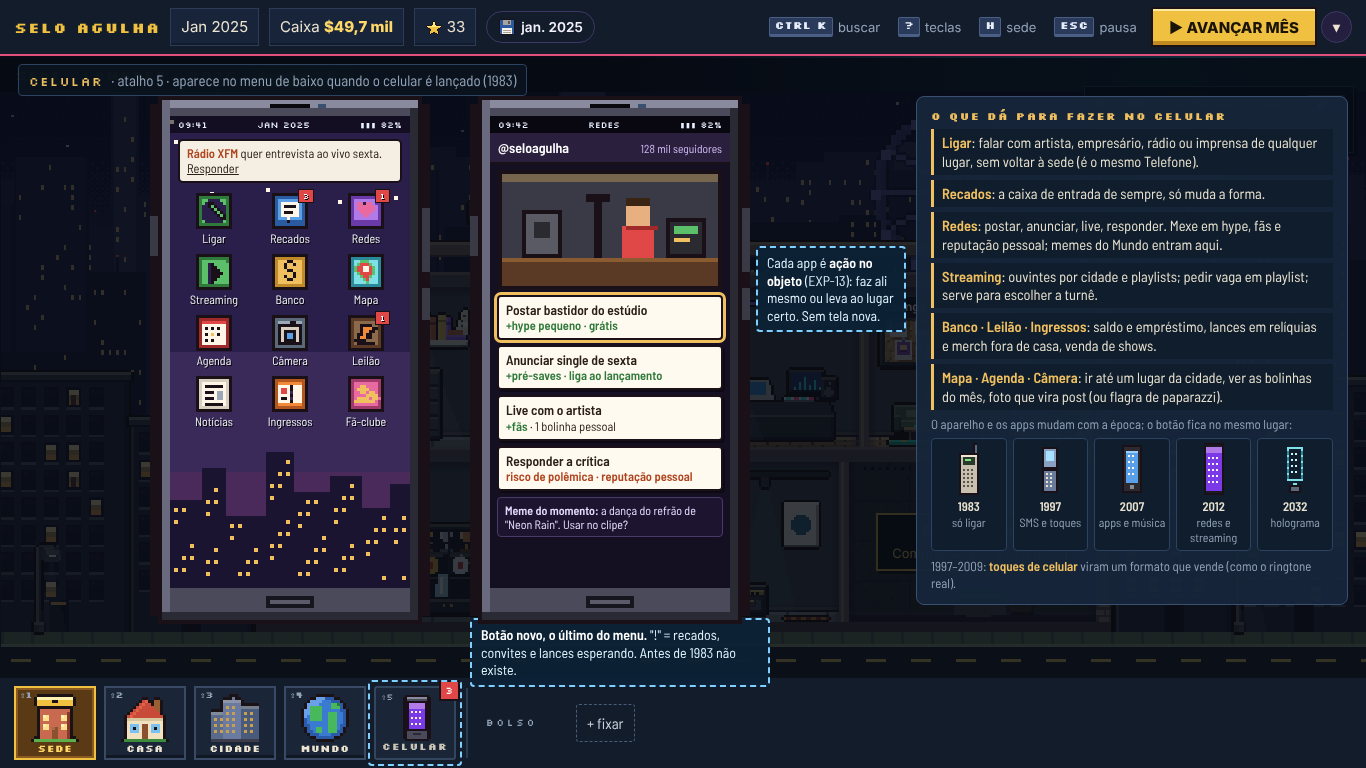
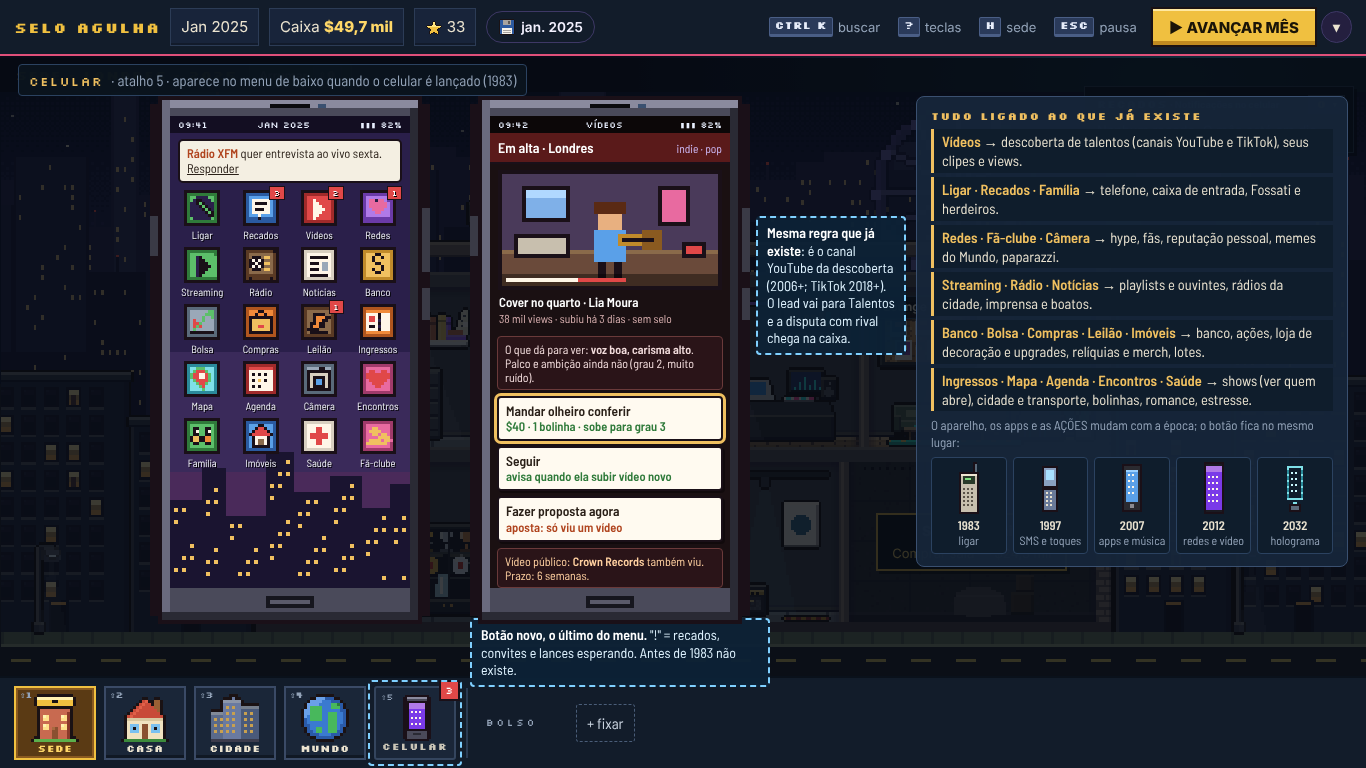
docs(r33): celular e computador ligados aos sistemas que já existem, com Vídeos (descoberta), Compras e ações por época
Claude-Session: https://claude.ai/code/session_011XM6gk992aeaeJ7tjK8svn

Changed region(s): [[0.3382, 0.125, 1.0, 0.8125], [0.123, 0.2188, 0.3075, 0.625]]

diff --git a/docs/r33/mocks/mock33-celular-pc.html b/docs/r33/mocks/mock33-celular-pc.html
@@ -23,7 +23,7 @@ canvas{image-rendering:pixelated;display:block}
 .callout b{color:#fff}
 .note{position:absolute;background:#16263af4;border:1px solid #3a5070;border-radius:8px;padding:12px 14px;font-size:14.5px;line-height:1.3}
 .note h4{margin:0 0 6px;font-family:var(--pix);font-size:11px;letter-spacing:.12em;color:var(--gold)}
-.note .it{border-left:3px solid var(--gold);padding:4px 8px;margin:5px 0;background:#0f1d2c}
+.note .it{border-left:3px solid var(--gold);padding:3px 8px;margin:4px 0;background:#0f1d2c}
 .note .it b{color:var(--gold)}
 .note .sm{color:var(--mute);font-size:13px}
 .eras{display:flex;gap:6px;margin-top:6px}
@@ -35,10 +35,10 @@ canvas{image-rendering:pixelated;display:block}
 /* phone screen */
 .scr{position:absolute;overflow:hidden;font-size:13px}
 .sbar{display:flex;justify-content:space-between;font-family:var(--pix);font-size:9px;color:#e9f0ff;padding:3px 8px;background:#0008}
-.grid{display:grid;grid-template-columns:repeat(3,1fr);gap:9px 4px;padding:10px 8px}
-.app{text-align:center;font-size:12px;color:#f2f4f8;position:relative;text-shadow:1px 1px 0 #000}
+.grid{display:grid;grid-template-columns:repeat(4,1fr);gap:6px 2px;padding:7px 4px}
+.app{text-align:center;font-size:10.5px;color:#f2f4f8;position:relative;text-shadow:1px 1px 0 #000}
 .app canvas{margin:0 auto 2px}
-.app i{position:absolute;right:12px;top:-4px;background:var(--red);color:#fff;font-style:normal;font-family:var(--pix);font-size:8px;padding:1px 4px;border:1px solid #1a1018}
+.app i{position:absolute;right:4px;top:-4px;background:var(--red);color:#fff;font-style:normal;font-family:var(--pix);font-size:8px;padding:1px 4px;border:1px solid #1a1018}
 .notif{margin:6px 8px 0;background:#f4efe2;color:#2a2018;border-radius:5px;padding:5px 7px;font-size:12.5px;line-height:1.2;border:2px solid #1a1018}
 .notif b{color:#b0441e}
 .apphead{background:#2a1f3d;color:#fff;padding:6px 8px;font-weight:700;font-size:14px;border-bottom:2px solid #1a1018;display:flex;justify-content:space-between;align-items:center}
@@ -50,10 +50,10 @@ canvas{image-rendering:pixelated;display:block}
 .opt.sel{outline:3px solid var(--gold)}
 .feed{margin:6px 7px;background:#1d1530;border:1px solid #4a3a6a;border-radius:4px;padding:5px 7px;color:#e6dcff;font-size:12px}
 /* pc */
-.desk{display:grid;grid-template-columns:repeat(2,96px);gap:12px 8px;padding:12px;position:absolute;left:0;top:0;bottom:30px}
-.ico{text-align:center;font-size:12.5px;color:#fff;text-shadow:1px 1px 0 #000;position:relative}
+.desk{display:grid;grid-template-columns:repeat(3,84px);gap:6px 4px;padding:10px;position:absolute;left:0;top:0;bottom:30px}
+.ico{text-align:center;font-size:11.5px;color:#fff;text-shadow:1px 1px 0 #000;position:relative}
 .ico canvas{margin:0 auto 2px}
-.ico i{position:absolute;right:18px;top:-4px;background:var(--red);color:#fff;font-style:normal;font-family:var(--pix);font-size:8px;padding:1px 4px;border:1px solid #1a1018}
+.ico i{position:absolute;right:14px;top:-4px;background:var(--red);color:#fff;font-style:normal;font-family:var(--pix);font-size:8px;padding:1px 4px;border:1px solid #1a1018}
 .win{position:absolute;background:#f4f1ea;color:#1f2430;border:2px solid #1a1018;box-shadow:4px 4px 0 #0007}
 .win .tb{background:#3b5b8a;color:#fff;font-weight:700;padding:4px 8px;font-size:13.5px;display:flex;justify-content:space-between}
 .win .tb span{font-family:var(--pix);font-size:9px;line-height:16px}
@@ -108,6 +108,15 @@ const ICONS={
  talentos:['kkkkkkkkkkkk','kBBBBBBBBBBk','kBbbbbbbbbBk','kBbkkkbbbbBk','kBkwwwkbbbBk','kBkwwwkbbbBk','kBbkkkkbbbBk','kBbbbbkkbbBk','kBbbbbbkkbBk','kBbbbbbbkkBk','kBBBBBBBBBBk','kkkkkkkkkkkk'],
  anuncio:['kkkkkkkkkkkk','kYYYYYYYYYYk','kYyyyyyyykYk','kYyyyyykkkYk','kYykkkkwwkYk','kYykwwwwwkYk','kYykkkkwwkYk','kYyyykykkkYk','kYyyykyyykYk','kYyyyyyyyyYk','kYYYYYYYYYYk','kkkkkkkkkkkk'],
  jogo:['kkkkkkkkkkkk','kPPPPPPPPPPk','kPppppppppPk','kPpkkkkkkpPk','kPkwkwwwwkPk','kPkkkwwrwkPk','kPkwkwrwrkPk','kPpkkkkkkpPk','kPppppppppPk','kPppppppppPk','kPPPPPPPPPPk','kkkkkkkkkkkk'],
+
+ video:['kkkkkkkkkkkk','kRRRRRRRRRRk','kRrrrrrrrrRk','kRrrwrrrrrRk','kRrrwwrrrrRk','kRrrwwwrrrRk','kRrrwwwwrrRk','kRrrwwwrrrRk','kRrrwwrrrrRk','kRrrwrrrrrRk','kRRRRRRRRRRk','kkkkkkkkkkkk'],
+ radio:['kkkkkkkkkkkk','kNNNNNNNNNkk','kNnnnnnnnnNk','kNnkkknyynNk','kNkwkwknnnNk','kNkkwkkyynNk','kNkwkwknnnNk','kNnkkknyynNk','kNnnnnnnnnNk','kNNNNNNNNNNk','kNkNNNNNNkNk','kkkkkkkkkkkk'],
+ bolsa:['kkkkkkkkkkkk','kSSSSSSSSSSk','kSssssssggSk','kSsssssgggSk','kSssssgssgSk','kSsrssgsssSk','kSsrrgssssSk','kSsrgrssssSk','kSsgssssssSk','kSkkkkkkkkSk','kSSSSSSSSSSk','kkkkkkkkkkkk'],
+ compras:['kkkkkkkkkkkk','kOOOOOOOOOOk','kOoookkoooOk','kOookookooOk','kOkkkkkkkkOk','kOkyyyyyykOk','kOkyyyyyykOk','kOkyyrryykOk','kOkyyyyyykOk','kOkkkkkkkkOk','kOOOOOOOOOOk','kkkkkkkkkkkk'],
+ encontros:['kkkkkkkkkkkk','kMMMMMMMMMMk','kMmmmmmmmmMk','kMmrrmmrrmMk','kMrrrrrrrrMk','kMrrrrrrrrMk','kMmrrrrrrmMk','kMmmrrrrmmMk','kMmmmrrmmmMk','kMmmmmmmmmMk','kMMMMMMMMMMk','kkkkkkkkkkkk'],
+ familia:['kkkkkkkkkkkk','kGGGGGGGGGGk','kGggggggggGk','kGgkkggkkgGk','kGgkwggkwgGk','kGgkkggkkgGk','kGkyykkoogGk','kGkyykkoogGk','kGgkkggkkgGk','kGggggggggGk','kGGGGGGGGGGk','kkkkkkkkkkkk'],
+ imoveis:['kkkkkkkkkkkk','kBBBBBBBBBBk','kBbbbkkbbbBk','kBbbkrrkbbBk','kBbkrrrrkbBk','kBkrrrrrrkBk','kBbkwwwwkbBk','kBbkwnnwkbBk','kBbkwnnwkbBk','kBbkkkkkkbBk','kBBBBBBBBBBk','kkkkkkkkkkkk'],
+ saude:['kkkkkkkkkkkk','kWWWWWWWWWWk','kWwwwwwwwwWk','kWwwwrrwwwWk','kWwwwrrwwwWk','kWwrrrrrrwWk','kWwrrrrrrwWk','kWwwwrrwwwWk','kWwwwrrwwwWk','kWwwwwwwwwWk','kWWWWWWWWWWk','kkkkkkkkkkkk'],
 };
 ICONS.email=ICONS.msg; ICONS.site=ICONS.mapa.map(r=>r.replace(/C/g,'B').replace(/c/g,'b')); ICONS.dados=ICONS.stream;
 const ico=(n,sc=3)=>spr(ICONS[n],K,sc);
@@ -141,7 +150,7 @@ function bigPhone(){return pcanvas(70,132,4,(R)=>{
 // wallpaper pixel (city at night + logo)
 function wall(w,h){return pcanvas(w,h,4,(R)=>{
  for(let y=0;y<h;y++){const t=y/h;R(0,y,w,1,t<.5?'#2a1f4a':t<.75?'#3a2a5a':'#4a2a5a')}
- for(let i=0;i<14;i++)R((i*37)%w,(i*11)%(h/5|0)+1,1,1,'#fff6e8');
+ 
  const bx=[[0,8,22],[8,6,30],[14,10,18],[24,7,34],[31,9,24],[40,8,28],[48,7,20],[55,6,26]];
  for(const [x,ww,hh] of bx){R(x,h-hh,ww,hh,'#1a1430');for(let yy=h-hh+2;yy<h-2;yy+=3)for(let xx=x+1;xx<x+ww-1;xx+=2)if((xx*7+yy*3)%5<2)R(xx,yy,1,1,'#f0c060')}
 });}
@@ -153,10 +162,26 @@ function photo(){return pcanvas(56,30,4,(R)=>{R(0,0,56,30,INK);R(1,1,54,28,'#3a3
  R(42,12,10,10,INK);R(43,13,8,8,'#2a2a30');R(44,14,6,2,'#5cbf6a');R(44,17,4,1,'#f0c060');// mesa
  R(1,1,54,2,'#f0c06055');});}
 
+function bedroom(){return pcanvas(56,30,4,(R)=>{R(0,0,56,30,INK);R(1,1,54,28,'#4a3a5a');R(1,20,54,9,'#6a4a3a');R(1,20,54,1,'#8a6a4a');
+ R(6,4,12,9,INK);R(7,5,10,7,'#7fb0e8');R(7,5,10,2,'#b0d8ff');R(40,4,8,10,INK);R(41,5,6,8,'#e86aa0');// janela e pôster
+ R(4,16,14,6,INK);R(5,17,12,4,'#c8bfae');// cama
+ R(25,9,6,6,'#e8b080');R(24,8,8,3,'#5a2a14');R(24,15,8,8,'#5aa0e8');R(25,23,2,4,INK);R(29,23,2,4,INK);// pessoa
+ R(30,16,10,3,'#c08a2a');R(36,15,5,5,'#8a5a20');R(31,17,8,1,INK);// violão
+ R(46,18,6,4,INK);R(47,19,4,2,'#e04848');// luz de gravação
+ R(1,26,54,3,'#00000066');R(2,27,30,1,'#e04848');R(2,27,18,1,'#fff6e8')});}
+function thumb(k){return pcanvas(14,14,3,(R)=>{R(0,0,14,14,INK);R(1,1,12,12,'#d8cfc0');
+ if(k==='led'){R(2,3,10,7,INK);R(3,4,8,5,'#3a2a5a');for(let x=3;x<11;x+=2)R(x,5,1,3,'#7fe0e8');R(6,10,2,3,INK)}
+ if(k==='laser'){R(3,7,6,4,INK);R(4,8,4,2,'#5a6a7a');R(8,3,1,1,'#5cff6a');R(9,2,1,1,'#5cff6a');R(10,1,1,1,'#5cff6a');R(7,4,1,1,'#5cff6a');R(6,5,1,1,'#5cff6a')}
+ if(k==='teto'){R(1,1,12,2,INK);R(3,3,8,2,'#f0c060');R(4,5,6,1,'#f0c06088');R(2,8,10,5,'#e8e0c0')}
+ if(k==='vidro'){R(2,2,10,10,INK);R(3,3,8,8,'#7fb0e8');R(3,3,4,8,'#3a5a8a');R(7,3,1,8,INK)}});}
+function flipBig(){return pcanvas(60,125,4,(R)=>{R(4,0,52,58,INK);R(5,1,50,56,'#6a7a9a');R(5,1,50,2,'#9aaac8');R(10,6,40,38,INK);R(24,48,12,2,'#3a4a62');
+ R(4,60,52,65,INK);R(5,61,50,63,'#5a6a8a');R(5,61,50,2,'#8a9ab8');R(4,57,52,4,'#3a4a62');
+ for(let y=0;y<4;y++)for(let x=0;x<3;x++){R(12+x*13,80+y*10,10,7,INK);R(13+x*13,81+y*10,8,5,'#d8d0c0');R(13+x*13,81+y*10,8,1,'#fff6e8')}
+ R(12,66,36,10,INK);R(13,67,34,8,'#3a4a62');R(26,68,8,6,'#9aaac8')});}
 // ---------- background ----------
 document.getElementById('bg').src=M==='cel'?'sede25.png':'sede25.png';
 
-if(M==='cel'){
+if(M==='cel'||M==='cel2'){
  add('<div class="dim"></div>');
  add('<div class="title">CELULAR <span>· atalho 5 · aparece no menu de baixo quando o celular é lançado (1983)</span></div>');
  // dock
@@ -168,44 +193,72 @@ if(M==='cel'){
  add('<div class="fixar" style="left:576px">+ fixar</div>');
  add('<div class="callout" style="left:470px;top:618px;width:300px"><b>Botão novo, o último do menu.</b> "!" = recados, convites e lances esperando. Antes de 1983 não existe.</div>');
  add('<div class="ann" style="left:368px;top:680px;width:94px;height:86px"></div>');
- // phone 1: home
- const P1L=150,PT=96;const f1=bigPhone();f1.style.cssText=`position:absolute;left:${P1L}px;top:${PT}px;width:280px;height:528px`;root.appendChild(f1);
+ const P1L=150,PT=96;
+ if(M==='cel'){const f1=bigPhone();f1.style.cssText=`position:absolute;left:${P1L}px;top:${PT}px;width:280px;height:528px`;root.appendChild(f1);
  const s1=add(`<div class="scr" style="left:${P1L+20}px;top:${PT+20}px;width:240px;height:472px"></div>`);
  const w1=wall(60,118);w1.style.cssText='position:absolute;inset:0;width:240px;height:472px';s1.appendChild(w1);
  const c1=$('<div style="position:relative"></div>');s1.appendChild(c1);
  c1.innerHTML='<div class="sbar"><span>09:41</span><span>JAN 2025</span><span>▮▮▮ 82%</span></div>'+
   '<div class="notif"><b>Rádio XFM</b> quer entrevista ao vivo sexta. <u>Responder</u></div>';
  const g1=$('<div class="grid"></div>');c1.appendChild(g1);
- const apps=[['ligar','Ligar',''],['msg','Recados','3'],['redes','Redes','1'],['stream','Streaming',''],['banco','Banco',''],['mapa','Mapa',''],['agenda','Agenda',''],['camera','Câmera',''],['leilao','Leilão','1'],['noticias','Notícias',''],['ingresso','Ingressos',''],['fas','Fã-clube','']];
+ const apps=[['ligar','Ligar',''],['msg','Recados','3'],['video','Vídeos','2'],['redes','Redes','1'],['stream','Streaming',''],['radio','Rádio',''],['noticias','Notícias',''],['banco','Banco',''],['bolsa','Bolsa',''],['compras','Compras',''],['leilao','Leilão','1'],['ingresso','Ingressos',''],['mapa','Mapa',''],['agenda','Agenda',''],['camera','Câmera',''],['encontros','Encontros',''],['familia','Família',''],['imoveis','Imóveis',''],['saude','Saúde',''],['fas','Fã-clube','']];
  for(const [k,lbl,bd] of apps){const a=$(`<div class="app">${bd?`<i>${bd}</i>`:''}<div>${lbl}</div></div>`);a.insertBefore(ico(k,3),a.firstChild);g1.appendChild(a)}
- add(`<div class="callout" style="left:${P1L-8}px;top:${PT+540}px;width:296px;display:none"></div>`);
- // phone 2: app Redes aberto
+ }
+ if(M==='cel'){
+ // phone 2: Vídeos — descobrir artista novo (discover18 · canal youtube)
  const P2L=470;const f2=bigPhone();f2.style.cssText=`position:absolute;left:${P2L}px;top:${PT}px;width:280px;height:528px`;root.appendChild(f2);
- const s2=add(`<div class="scr" style="left:${P2L+20}px;top:${PT+20}px;width:240px;height:472px;background:#141022"></div>`);
- s2.innerHTML='<div class="sbar"><span>09:42</span><span>REDES</span><span>▮▮▮ 82%</span></div>'+
-  '<div class="apphead">@seloagulha <span>128 mil seguidores</span></div>';
- const ph=photo();ph.style.cssText='display:block;margin:6px auto 0;width:224px;height:120px';s2.appendChild(ph);
+ const s2=add(`<div class="scr" style="left:${P2L+20}px;top:${PT+20}px;width:240px;height:472px;background:#1a1012"></div>`);
+ s2.innerHTML='<div class="sbar"><span>09:42</span><span>VÍDEOS</span><span>▮▮▮ 82%</span></div>'+
+  '<div class="apphead" style="background:#5a1a1a">Em alta · Londres <span>indie · pop</span></div>';
+ const vd=bedroom();vd.style.cssText='display:block;margin:6px auto 0;width:224px;height:120px';s2.appendChild(vd);
  s2.insertAdjacentHTML('beforeend',
-  '<div class="opt sel"><b>Postar bastidor do estúdio</b><em>+hype pequeno · grátis</em></div>'+
-  '<div class="opt"><b>Anunciar single de sexta</b><em>+pré-saves · liga ao lançamento</em></div>'+
-  '<div class="opt"><b>Live com o artista</b><em>+fãs</em> · 1 bolinha pessoal</div>'+
-  '<div class="opt"><b>Responder a crítica</b><em class="r">risco de polêmica · reputação pessoal</em></div>'+
-  '<div class="feed"><b>Meme do momento:</b> a dança do refrão de "Neon Rain". Usar no clipe?</div>');
- add(`<div class="callout" style="left:${P2L+286}px;top:${PT+150}px;width:150px">Cada app é <b>ação no objeto</b> (EXP-13): faz ali mesmo ou leva ao lugar certo. Sem tela nova.</div>`);
- // note
+  '<div style="padding:4px 9px;color:#fff;font-size:13px"><b>Cover no quarto · Lia Moura</b><br><span style="color:#d9b0b0;font-size:11.5px">38 mil views · subiu há 3 dias · sem selo</span></div>'+
+  '<div class="feed" style="background:#2a1418;border-color:#6a3a3a;color:#f2dcdc">O que dá para ver: <b>voz boa, carisma alto</b>. Palco e ambição ainda não (grau 2, muito ruído).</div>'+
+  '<div class="opt sel"><b>Mandar olheiro conferir</b><em>$40 · 1 bolinha · sobe para grau 3</em></div>'+
+  '<div class="opt"><b>Seguir</b><em>avisa quando ela subir vídeo novo</em></div>'+
+  '<div class="opt"><b>Fazer proposta agora</b><em class="r">aposta: só viu um vídeo</em></div>'+
+  '<div class="feed" style="background:#2a1418;border-color:#6a3a3a;color:#ffd0a0">Vídeo público: <b>Crown Records</b> também viu. Prazo: 6 semanas.</div>');
+ add(`<div class="callout" style="left:${P2L+286}px;top:${PT+120}px;width:150px"><b>Mesma regra que já existe</b>: é o canal YouTube da descoberta (2006+; TikTok 2018+). O lead vai para Talentos e a disputa com rival chega na caixa.</div>`);
  const n=add(`<div class="note" style="left:916px;top:96px;width:432px"></div>`);
- n.innerHTML='<h4>O QUE DÁ PARA FAZER NO CELULAR</h4>'+
- '<div class="it"><b>Ligar</b>: falar com artista, empresário, rádio ou imprensa de qualquer lugar, sem voltar à sede (é o mesmo Telefone).</div>'+
- '<div class="it"><b>Recados</b>: a caixa de entrada de sempre, só muda a forma.</div>'+
- '<div class="it"><b>Redes</b>: postar, anunciar, live, responder. Mexe em hype, fãs e reputação pessoal; memes do Mundo entram aqui.</div>'+
- '<div class="it"><b>Streaming</b>: ouvintes por cidade e playlists; pedir vaga em playlist; serve para escolher a turnê.</div>'+
- '<div class="it"><b>Banco · Leilão · Ingressos</b>: saldo e empréstimo, lances em relíquias e merch fora de casa, venda de shows.</div>'+
- '<div class="it"><b>Mapa · Agenda · Câmera</b>: ir até um lugar da cidade, ver as bolinhas do mês, foto que vira post (ou flagra de paparazzi).</div>'+
- '<div class="sm" style="margin-top:6px">O aparelho e os apps mudam com a época; o botão fica no mesmo lugar:</div>';
+ n.innerHTML='<h4>TUDO LIGADO AO QUE JÁ EXISTE</h4>'+
+ '<div class="it"><b>Vídeos</b> → descoberta de talentos (canais YouTube e TikTok), seus clipes e views.</div>'+
+ '<div class="it"><b>Ligar · Recados · Família</b> → telefone, caixa de entrada, Fossati e herdeiros.</div>'+
+ '<div class="it"><b>Redes · Fã-clube · Câmera</b> → hype, fãs, reputação pessoal, memes do Mundo, paparazzi.</div>'+
+ '<div class="it"><b>Streaming · Rádio · Notícias</b> → playlists e ouvintes, rádios da cidade, imprensa e boatos.</div>'+
+ '<div class="it"><b>Banco · Bolsa · Compras · Leilão · Imóveis</b> → banco, ações, loja de decoração e upgrades, relíquias e merch, lotes.</div>'+
+ '<div class="it"><b>Ingressos · Mapa · Agenda · Encontros · Saúde</b> → shows (ver quem abre), cidade e transporte, bolinhas, romance, estresse.</div>'+
+ '<div class="sm" style="margin-top:6px">O aparelho, os apps e as AÇÕES mudam com a época; o botão fica no mesmo lugar:</div>';
  const er=$('<div class="eras"></div>');n.appendChild(er);
- for(const [k,y,t] of [['brick','1983','só ligar'],['flip','1997','SMS e toques'],['smart1','2007','apps e música'],['smart','2012','redes e streaming'],['holo','2032','holograma']]){const d=$(`<div><b>${y}</b>${t}</div>`);const cv=eraPhone(k,2);d.insertBefore(cv,d.firstChild);er.appendChild(d)}
- n.insertAdjacentHTML('beforeend','<div class="sm" style="margin-top:7px">1997–2009: <b style="color:#f0c060">toques de celular</b> viram um formato que vende (como o ringtone real).</div>');
-}
+ for(const [k,y,t] of [['brick','1983','ligar'],['flip','1997','SMS e toques'],['smart1','2007','apps e música'],['smart','2012','redes e vídeo'],['holo','2032','holograma']]){const d=$(`<div><b>${y}</b>${t}</div>`);const cv=eraPhone(k,2);d.insertBefore(cv,d.firstChild);er.appendChild(d)}
+ }
+ if(M==='cel2'){
+ // phone 2: Compras — comprar objetos (decoshop31, compra a distância)
+ const P2L=470;const f2=bigPhone();f2.style.cssText=`position:absolute;left:${P2L}px;top:${PT}px;width:280px;height:528px`;root.appendChild(f2);
+ const s2=add(`<div class="scr" style="left:${P2L+20}px;top:${PT+20}px;width:240px;height:472px;background:#f4efe2;color:#2a2018"></div>`);
+ s2.innerHTML='<div class="sbar" style="background:#2a2018"><span>09:43</span><span>COMPRAS</span><span>▮▮▮ 82%</span></div>'+
+  '<div class="apphead" style="background:#b0561e">Para a sede <span>entrega em 3 dias</span></div>'+
+  '<div style="display:flex;gap:4px;padding:5px 7px;font-size:11.5px"><span style="background:#2a2018;color:#fff;padding:2px 6px">Sede</span><span style="border:1px solid #2a2018;padding:2px 6px">Casa</span><span style="border:1px solid #2a2018;padding:2px 6px">Instrumentos</span><span style="border:1px solid #2a2018;padding:2px 6px">Carro</span></div>';
+ const items=[['led','Telão de LED na fachada','$5,0 mil','+público na porta'],['laser','Canhão de laser','$1,5 mil','+público no palco'],['teto','Teto de luz que acompanha o dia','$900','+descanso da equipe'],['vidro','Vidro que escurece sozinho','$2,0 mil','+descanso']];
+ for(const [k,nm,pr,fx] of items){const r=$(`<div class="opt" style="display:flex;gap:7px;align-items:center;${k==='led'?'outline:3px solid #f0c060':''}"><div style="flex:1"><b>${nm}</b><em>${fx}</em></div><div style="text-align:right;font-weight:700">${pr}<br><span style="font-size:11px;background:#f0c060;border:1px solid #1a1018;padding:1px 5px">Comprar</span></div></div>`);r.insertBefore(thumb(k),r.firstChild);s2.appendChild(r)}
+ s2.insertAdjacentHTML('beforeend','<div style="padding:4px 9px;font-size:11.5px;color:#6d5a44">Onde colocar: <b>Sede · fachada ▾</b> · chega pela porta da rua e vai para "Arrumar".</div>');
+ add(`<div class="callout" style="left:${P2L+286}px;top:${PT+150}px;width:150px"><b>Comprar objetos</b> é a compra a distância das lojas de decoração (mesmo catálogo, preço e prazo). Antes da internet: catálogo pelo correio.</div>`);
+ // phone 3 (era 1997): flip
+ const P3L=150;
+ const fl=flipBig();fl.style.cssText=`position:absolute;left:${P3L+20}px;top:${PT+10}px;width:240px;height:500px`;root.appendChild(fl);
+ const s3=add(`<div class="scr" style="left:${P3L+62}px;top:${PT+36}px;width:156px;height:144px;background:#9ac0a0;color:#1a2a1a;font-family:var(--pix);font-size:9px;line-height:1.5;padding:6px"></div>`);
+ s3.innerHTML='<div style="display:flex;justify-content:space-between"><span>▮▮▮</span><span>JAN 1997</span><span>▮▮</span></div>'+
+  '<div style="border-top:1px solid #1a2a1a;margin-top:3px;padding-top:3px">&gt; LIGAR<br>&nbsp; SMS (2)<br>&nbsp; TOQUES<br>&nbsp; AGENDA<br>&nbsp; JOGO</div>';
+ add(`<div class="callout" style="left:${P3L-4}px;top:${PT+512}px;width:300px;top:${PT+500}px">Celular de 1997: só <b>Ligar, SMS, Toques, Agenda e Jogo</b>. Nada de vídeo, redes ou compras.</div>`);
+ const n=add(`<div class="note" style="left:916px;top:96px;width:432px"></div>`);
+ n.innerHTML='<h4>AS AÇÕES MUDAM COM A ÉPOCA</h4>'+
+ '<div class="it"><b>Ligar</b> 1983: só de carro ou rua, caro por minuto → 1997: qualquer lugar → 2012: chamada de vídeo (conversa vale mais) → 2032: holograma na sala.</div>'+
+ '<div class="it"><b>Mensagens</b> 1997: SMS curto → 2009: grupo do elenco → 2015: áudio → 2032: assistente responde por você (pode errar).</div>'+
+ '<div class="it"><b>Música</b> 1997: vender toque → 2003: MP3 e P2P (pirataria) → 2008: streaming e playlists → 2030: faixa gerada por IA.</div>'+
+ '<div class="it"><b>Vídeos e redes</b> 2004: perfil → 2006: cover no quarto → 2010: post e foto → 2018: dança curta viral → 2030: avatar.</div>'+
+ '<div class="it"><b>Compras</b> 1889–1996: catálogo pelo correio (semanas) → 1999: loja online (dias) → 2015: entrega no dia → 2030: drone.</div>'+
+ '<div class="it"><b>Dinheiro</b> 2000: ver saldo → 2010: pagar e transferir → 2020: Pix e carteira digital (BR 2020) → 2021–22: bolha das NFTs.</div>';
+ }
+ }
 
 if(M==='pc'){
  // ring + action card on the desk PC (scene stays visible)
@@ -227,9 +280,9 @@ if(M==='pc'){
  const scr=add(`<div class="scr" style="left:${ML+20}px;top:${MT+20}px;width:${MW-40}px;height:${MH-44}px;background:#3a2a5a"></div>`);
  const wp=wall(205,119);wp.style.cssText='position:absolute;inset:0;width:100%;height:100%';scr.appendChild(wp);
  const dk=$('<div class="desk"></div>');scr.appendChild(dk);
- for(const [k,l,bd] of [['email','E-mail','4'],['planilha','Planilha',''],['dados','Painel do artista',''],['audio','Editor de áudio',''],['loja','Loja online',''],['talentos','Demos online','2'],['anuncio','Anúncios',''],['site','Site e fã-clube',''],['leilao','Leilão',''],['jogo','Jogo','']]){const a=$(`<div class="ico">${bd?`<i>${bd}</i>`:''}<div>${l}</div></div>`);a.insertBefore(ico(k,3),a.firstChild);dk.appendChild(a)}
+ for(const [k,l,bd] of [['email','E-mail','4'],['planilha','Planilha',''],['video','Vídeos','2'],['dados','Painel do artista',''],['talentos','Demos online','1'],['audio','Editor de áudio',''],['compras','Compras',''],['loja','Loja online',''],['anuncio','Anúncios',''],['site','Site e fã-clube',''],['leilao','Leilão',''],['bolsa','Bolsa',''],['noticias','Contratos',''],['agenda','Relatórios',''],['jogo','Jogo','']]){const a=$(`<div class="ico">${bd?`<i>${bd}</i>`:''}<div>${l}</div></div>`);a.insertBefore(ico(k,3),a.firstChild);dk.appendChild(a)}
  // janela: painel do artista
- scr.insertAdjacentHTML('beforeend',`<div class="win" style="left:236px;top:22px;width:330px">
+ scr.insertAdjacentHTML('beforeend',`<div class="win" style="left:300px;top:22px;width:330px">
   <div class="tb">Painel do artista · Neon Rain <span>_ ▢ x</span></div><div class="bd">
   <div class="row"><span>Ouvintes no mês</span><b>412 mil</b></div>
   <div class="row"><span>Londres</span><span><i class="bar" style="width:120px"></i> 31%</span></div>
@@ -238,7 +291,7 @@ if(M==='pc'){
   <div class="row"><span>Playlists</span><b>3 editoriais</b></div>
   <span class="wbtn">Montar turnê por aqui</span><span class="wbtn g">Pedir playlist</span></div></div>`);
  // janela: editor de áudio
- scr.insertAdjacentHTML('beforeend',`<div class="win" style="left:420px;top:228px;width:378px">
+ scr.insertAdjacentHTML('beforeend',`<div class="win" style="left:430px;top:236px;width:384px">
   <div class="tb">Editor de áudio · demo caseira <span>_ ▢ x</span></div><div class="bd">
   <div id="wave" style="height:58px;background:#1b2430;border:2px solid #1a1018"></div>
   <div style="margin-top:4px">Gravar uma demo sem estúdio: <b>1 bolinha</b>, custo zero, qualidade baixa. Boa para testar música ou mandar para a rádio.</div>
@@ -247,12 +300,12 @@ if(M==='pc'){
  wv.style.cssText='width:100%;height:100%';scr.querySelector('#wave').appendChild(wv);
  scr.insertAdjacentHTML('beforeend','<div class="task"><span class="st">INICIAR</span><span class="tab">Painel do artista</span><span class="tab">Editor de áudio</span><span class="clk">JAN 2025 · 09:41</span></div>');
  // note + eras
- const n=add(`<div class="note" style="left:14px;top:376px;width:332px;font-size:13px;padding:9px 10px"></div>`);
- n.innerHTML='<h4>NO COMPUTADOR</h4>'+
- '<div class="it"><b>E-mail · Planilha</b>: caixa e livro-caixa de sempre; a planilha mostra a previsão de vendas.</div>'+
- '<div class="it"><b>Painel · Demos online</b>: ouvintes por cidade para a turnê; talentos que sobem música na rede.</div>'+
- '<div class="it"><b>Áudio · Loja · Anúncios · Site · Jogo</b>: demo caseira, venda direta ao fã, campanha online, fã-clube, pausa que baixa o estresse.</div>'+
- '';
+ const n=add(`<div class="note" style="left:14px;top:364px;width:332px;font-size:13px;padding:9px 10px"></div>`);
+ n.innerHTML='<h4>NO COMPUTADOR · POR ÉPOCA</h4>'+
+ '<div class="it"><b>1982</b> planilha e jogo · <b>1995</b> e-mail, site, compras por catálogo online</div>'+
+ '<div class="it"><b>1999–2010</b> fórum e P2P: ver e denunciar a pirataria · <b>2003</b> demos em perfis (MySpace)</div>'+
+ '<div class="it"><b>2006</b> vídeos: descobrir artista (canal da descoberta) · <b>2012</b> painel do artista, loja online, anúncios</div>'+
+ '<div class="it"><b>2030</b> IA: demo gerada, relatório que prevê vendas (aprendizados)</div>';
  const er=$('<div class="eras"></div>');n.appendChild(er);
  for(const [k,y,t] of [['term','1982','planilha'],['win95','1995','e-mail e site'],['portal','2003','perfil e P2P'],['plano','2012','painel e loja'],['vidro','2032','IA e holo']]){const d=$(`<div><b>${y}</b>${t}</div>`);const cv=eraMon(k,2);d.insertBefore(cv,d.firstChild);er.appendChild(d)}
 }

diff --git a/docs/r33/CELULAR_PC.md b/docs/r33/CELULAR_PC.md
@@ -1,0 +1,113 @@
+# Celular e computador (versão 33) — proposta para o POL33
+
+Mocks: `docs/r33/mocks/mock33-celular.png`, `mock33-celular-compras-epoca.png`, `mock33-computador.png`.
+
+Pedidos do dono (2026-10-17):
+- Um botão **CELULAR** no menu de baixo, o último (depois de MUNDO), atalho 5, que só aparece quando o celular é lançado
+  (1983). Ele abre uma tela interativa que representa o aparelho.
+- O mesmo para o **computador**, usando o PC que já está na mesa do escritório (upgrade "Computador com planilha" do
+  livro-caixa, 1982+), sem atalho no menu de baixo.
+- "Devemos ter mais coisas e tudo deve ser integrado ao que já existe": por exemplo, ver vídeos e descobrir um artista
+  novo assim.
+- Também deve dar para **comprar objetos**.
+
+## Regras
+
+- **Nenhuma regra nova paralela.** Cada app é uma porta para um sistema que já existe: chama a mesma função, abre o
+  mesmo cartão de ações (ACOES5) ou leva ao lugar certo. Os custos são os do sistema de origem (dinheiro, bolinhas).
+  Se o sistema de origem estiver desligado, o app não aparece.
+- O celular abre por cima da cena atual, sem trocar de lugar (EXP-13). O "!" do botão soma os "!" dos apps.
+- **Época manda.** Cada app tem um ano de entrada (e às vezes de saída). O aparelho e o visual mudam com a época, mas
+  o botão e a posição dos apps ficam no mesmo lugar.
+
+  | Ano | Celular | Computador |
+  |---|---|---|
+  | 1982 | — | tela verde |
+  | 1983 | tijolão | — |
+  | 1995 | — | janelas |
+  | 1997 | flip | — |
+  | 2003 | — | portal |
+  | 2007 | primeiro smartphone | — |
+  | 2012 | smartphone | tela plana |
+  | 2032 | holograma | vidro |
+
+- Pixel art pelas regras do PLANO (Px, contorno INK, luz de cima à esquerda, paleta da época), sem nomes reais de
+  marcas: "Vídeos", "Redes", "Streaming".
+- Interruptor `exp33.aparelhos`, ligado por padrão.
+
+## Apps do celular (ano em que aparecem → sistema que já existe)
+
+| App | Desde | Faz | Liga em |
+|---|---|---|---|
+| Ligar | 1983 | falar com artista, empresário, rádio, imprensa de qualquer lugar | `managers14`, objeto Telefone, `social31` (contatos) |
+| Recados | 1983 (SMS 1997) | a caixa de entrada de sempre | `inbox18` |
+| **Vídeos** | 2006 | ver vídeos em alta e **descobrir artista novo** (cover no quarto, clipe caseiro, dança viral); assistir revela o grau como no canal; "mandar olheiro", "seguir", "fazer proposta"; rival também vê (visibilidade pública) → disputa | `discover18` canais `youtube` (2006+) e `tiktok` (2018+) via `dig18`; `scoutRace18`; clipes do seu elenco com views (`stream18`, fonte "vídeo") |
+| Redes | 2004 | postar bastidor, anunciar lançamento, live, responder crítica; meme do momento | `hype12`, `fans18`, `rollout` (pré-save), `vida33` reputação pessoal, memes de `mundo33` |
+| Streaming | 2008 | ouvintes por cidade, playlists, pedir vaga em playlist | `stream18`, `car31plat`, paradas `charts7` |
+| Rádio | 1983 | ouvir as rádios da cidade, ligar para o programador | `radio18` |
+| Notícias | 1999 | notícias e boatos sobre você e o mundo | `press18`, `zines19`, Jornal na mesa |
+| Banco | 2000 | saldo, empréstimo, catálogo como garantia | banco da INT-2, `finance`, `bonds9` |
+| Bolsa | 1999 | comprar e vender ações de selos, plataformas e fabricantes | `bolsa10` |
+| **Compras** | 1999 | **comprar objetos**: decoração, upgrades da sede e da casa, instrumentos, carro; entrega a distância com prazo da época | `decoshop31` (compra a distância), `deco31`, `items31`, `gear19` |
+| Leilão | 2000 | lances em relíquias e merch exclusivo fora de casa | `auction31`, `bauc31`, `relic31`, merch do POL33 |
+| Ingressos | 2000 | ver shows da semana; ir a um show para ver quem abre (descoberta) | `watchShow18` de `discover18`, `show27`, `tours` |
+| Mapa | 2007 | ir até um lugar da cidade, chamar transporte | `city31`, `travel31`, `place27` |
+| Agenda | 1983 | bolinhas do mês e compromissos | `agenda17`, `calendar19` |
+| Câmera | 2002 | foto que vira post; flagras de paparazzi | `vida33` paparazzi, Redes |
+| Encontros | 2012 | chamar alguém para sair (família Fossati nunca aparece) | `amor31`, `love17`, `life` |
+| Família | 1983 | falar com a família, Fossati e herdeiros | `fossati31`, `heirs8`, `kids17` |
+| Imóveis | 2005 | lotes, casas e aluguéis da cidade | `lots31`, CIDADE (`cidade33`) |
+| Saúde | 2014 | estresse, sono, marcar médico ou férias | `vida33`, `stress17` |
+| Fã-clube | 2004 | falar com os fãs, ver motivos e lealdade | `fans18`, `fan15` |
+| Toques | 1997–2009 | vender toques de celular das suas músicas: um formato novo | `formats33` (formato "toque") |
+
+## Apps do computador
+
+| App | Desde | Faz | Liga em |
+|---|---|---|---|
+| Planilha | 1982 | livro-caixa com previsão de vendas | `finance`, `learn31`/`learn33` |
+| E-mail | 1995 | a caixa de entrada de sempre | `inbox18` |
+| Site e fã-clube | 1995 | lista de fãs, notícias do selo | `fans18`, `fan15` |
+| Fórum e P2P | 1999–2010 | ver a pirataria de discos; denunciar ou ignorar | pirataria do mundo (`events_more11`, cartório da INT-2) |
+| Demos online | 2003 | ouvir demos de perfis (MySpace 2003–10, SoundCloud 2009+) | `discover18` canais `myspace`/`soundcloud`, `demo29` |
+| **Vídeos** | 2006 | o mesmo app do celular, com tela maior e filtro por gênero e país | `discover18` (`youtube`, `tiktok`) |
+| Painel do artista | 2012 | ouvintes por cidade → "montar turnê por aqui"; pedir playlist | `stream18`, `car31plat`, `tours` |
+| Editor de áudio | 1999 | demo caseira (1 bolinha, sem custo, qualidade baixa) → mandar à rádio ou subir na rede | `compose27`, `studio`, `radio18` |
+| **Compras** | 1997 | o mesmo app do celular, com catálogo completo e comparar | `decoshop31`, `deco31`, `items31`, `gear19` |
+| Loja online | 1997 | vender merch e vinil direto ao fã | `merch17`, `vitrine31` |
+| Anúncios | 2000 | campanha online segmentada por cidade | `media`/`rollout`, outdoors do POL33 |
+| Leilão | 1997 | lances em relíquias | `auction31`, `bauc31`, `relic31` |
+| Bolsa | 1997 | home broker | `bolsa10` |
+| Contratos | 1985 | ver contratos e cláusulas | `contracts19`, `rights18` |
+| Relatórios | 1990 | relatórios dos diretores | `deleg31`, `dir33` |
+| Jogo | 1982 | pausa que baixa o estresse | `leisure14`, `stress17` |
+
+## As ações mudam com a época (pedido do dono)
+
+O ano não decide só quais apps existem: dentro do mesmo app, as ações também mudam com a época. Cada ação tem um
+intervalo de anos, e o cartão mostra só as ações do ano da partida.
+
+| Área | Linha do tempo das ações |
+|---|---|
+| Ligar | **1983** só de carro ou na rua, caro por minuto → **1997** de qualquer lugar → **2012** chamada de vídeo (a conversa rende mais na relação) → **2032** holograma na sala |
+| Mensagens | **1997** SMS curto → **2009** grupo do elenco (fofoca e briga aparecem ali) → **2015** áudio → **2032** assistente responde por você (pode errar e virar crise) |
+| Música | **1997** vender toque → **2003** MP3 e P2P (pirataria) → **2008** streaming e playlists → **2030** faixa gerada por IA |
+| Vídeos e redes | **2004** perfil → **2006** cover no quarto → **2010** post e foto → **2018** dança curta viral → **2030** avatar |
+| Compras | **1889–1996** catálogo pelo correio (semanas) → **1999** loja online (dias) → **2015** entrega no dia → **2030** drone |
+| Dinheiro | **2000** ver saldo → **2010** pagar e transferir → **2020** Pix e carteira digital (Brasil 2020) → **2021–22** bolha das NFTs |
+| Computador | **1982** planilha e jogo → **1995** e-mail, site e compras → **1999–2010** fórum e P2P → **2003** demos em perfis → **2006** vídeos → **2012** painel do artista, loja online e anúncios → **2030** IA (demo gerada, relatório que prevê vendas) |
+
+## Antes do celular e do computador
+
+Sem botão (antes de 1983) e sem PC (antes de 1982), as mesmas portas continuam nos objetos de sempre: telefone de
+mesa, jornal, rádio, livro-caixa. Compras antes da internet: "Catálogo pelo correio" na mesa (1889+), que usa a
+mesma compra a distância de `decoshop31`, com prazo de entrega maior.
+
+## Teste
+
+Teste do tipo `r33-aparelhos`:
+- todo app aponta para uma função ou área que existe;
+- os anos de entrada são respeitados;
+- o app some quando o sistema de origem está desligado;
+- assistir a um vídeo gera o mesmo lead de `dig18('youtube')`;
+- comprar pelo app chama a compra a distância de `decoshop31`.
